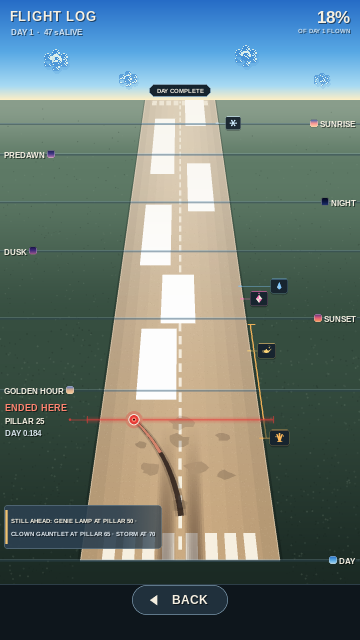
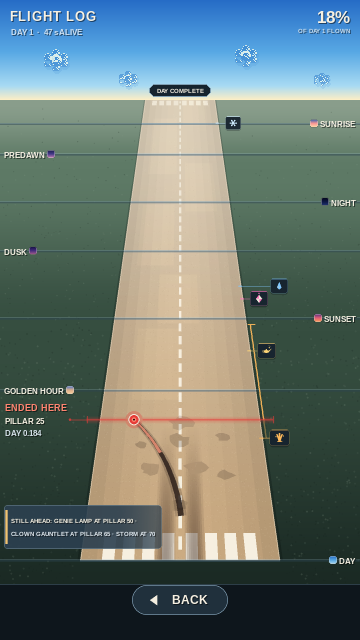
Flight Log progress — runway_view round 1 latest render

diff --git a/tools/render_flight_log_progress_runway_view.py b/tools/render_flight_log_progress_runway_view.py
@@ -281,13 +281,15 @@ def draw_sun_streaks():
         p1 = min(1.0, p0 + rng.uniform(0.09, 0.20))
         ya, yb = phase_to_y(p0), phase_to_y(p1)
         u = rng.uniform(-0.60, 0.60)
-        wa, wb = 0.52 * hw_at_y(ya), 0.52 * hw_at_y(yb)
         xa, xb = CX + u * hw_at_y(ya), CX + u * hw_at_y(yb)
-        # Broad and faint: light, not a painted stripe. Anything stronger
-        # competes with the centreline for the eye.
-        pygame.draw.polygon(lay, (255, 246, 216, 10), [
-            (s(xa - wa / 2), s(ya)), (s(xa + wa / 2), s(ya)),
-            (s(xb + wb / 2), s(yb)), (s(xb - wb / 2), s(yb))])
+        # BLEND_ADD reads RGB and ignores source alpha, so the intensity has
+        # to live in the channels. Three nested quads fake a soft falloff;
+        # broad and faint, so light never competes with the centreline.
+        for span, lift in ((0.62, 4), (0.40, 5), (0.18, 5)):
+            wa, wb = span * hw_at_y(ya), span * hw_at_y(yb)
+            pygame.draw.polygon(lay, (lift + 1, lift, lift - 2, 255), [
+                (s(xa - wa / 2), s(ya)), (s(xa + wa / 2), s(ya)),
+                (s(xb + wb / 2), s(yb)), (s(xb - wb / 2), s(yb))])
     clip_to_pavement(lay)
     geo.blit(lay, (0, 0), special_flags=pygame.BLEND_ADD)
 
